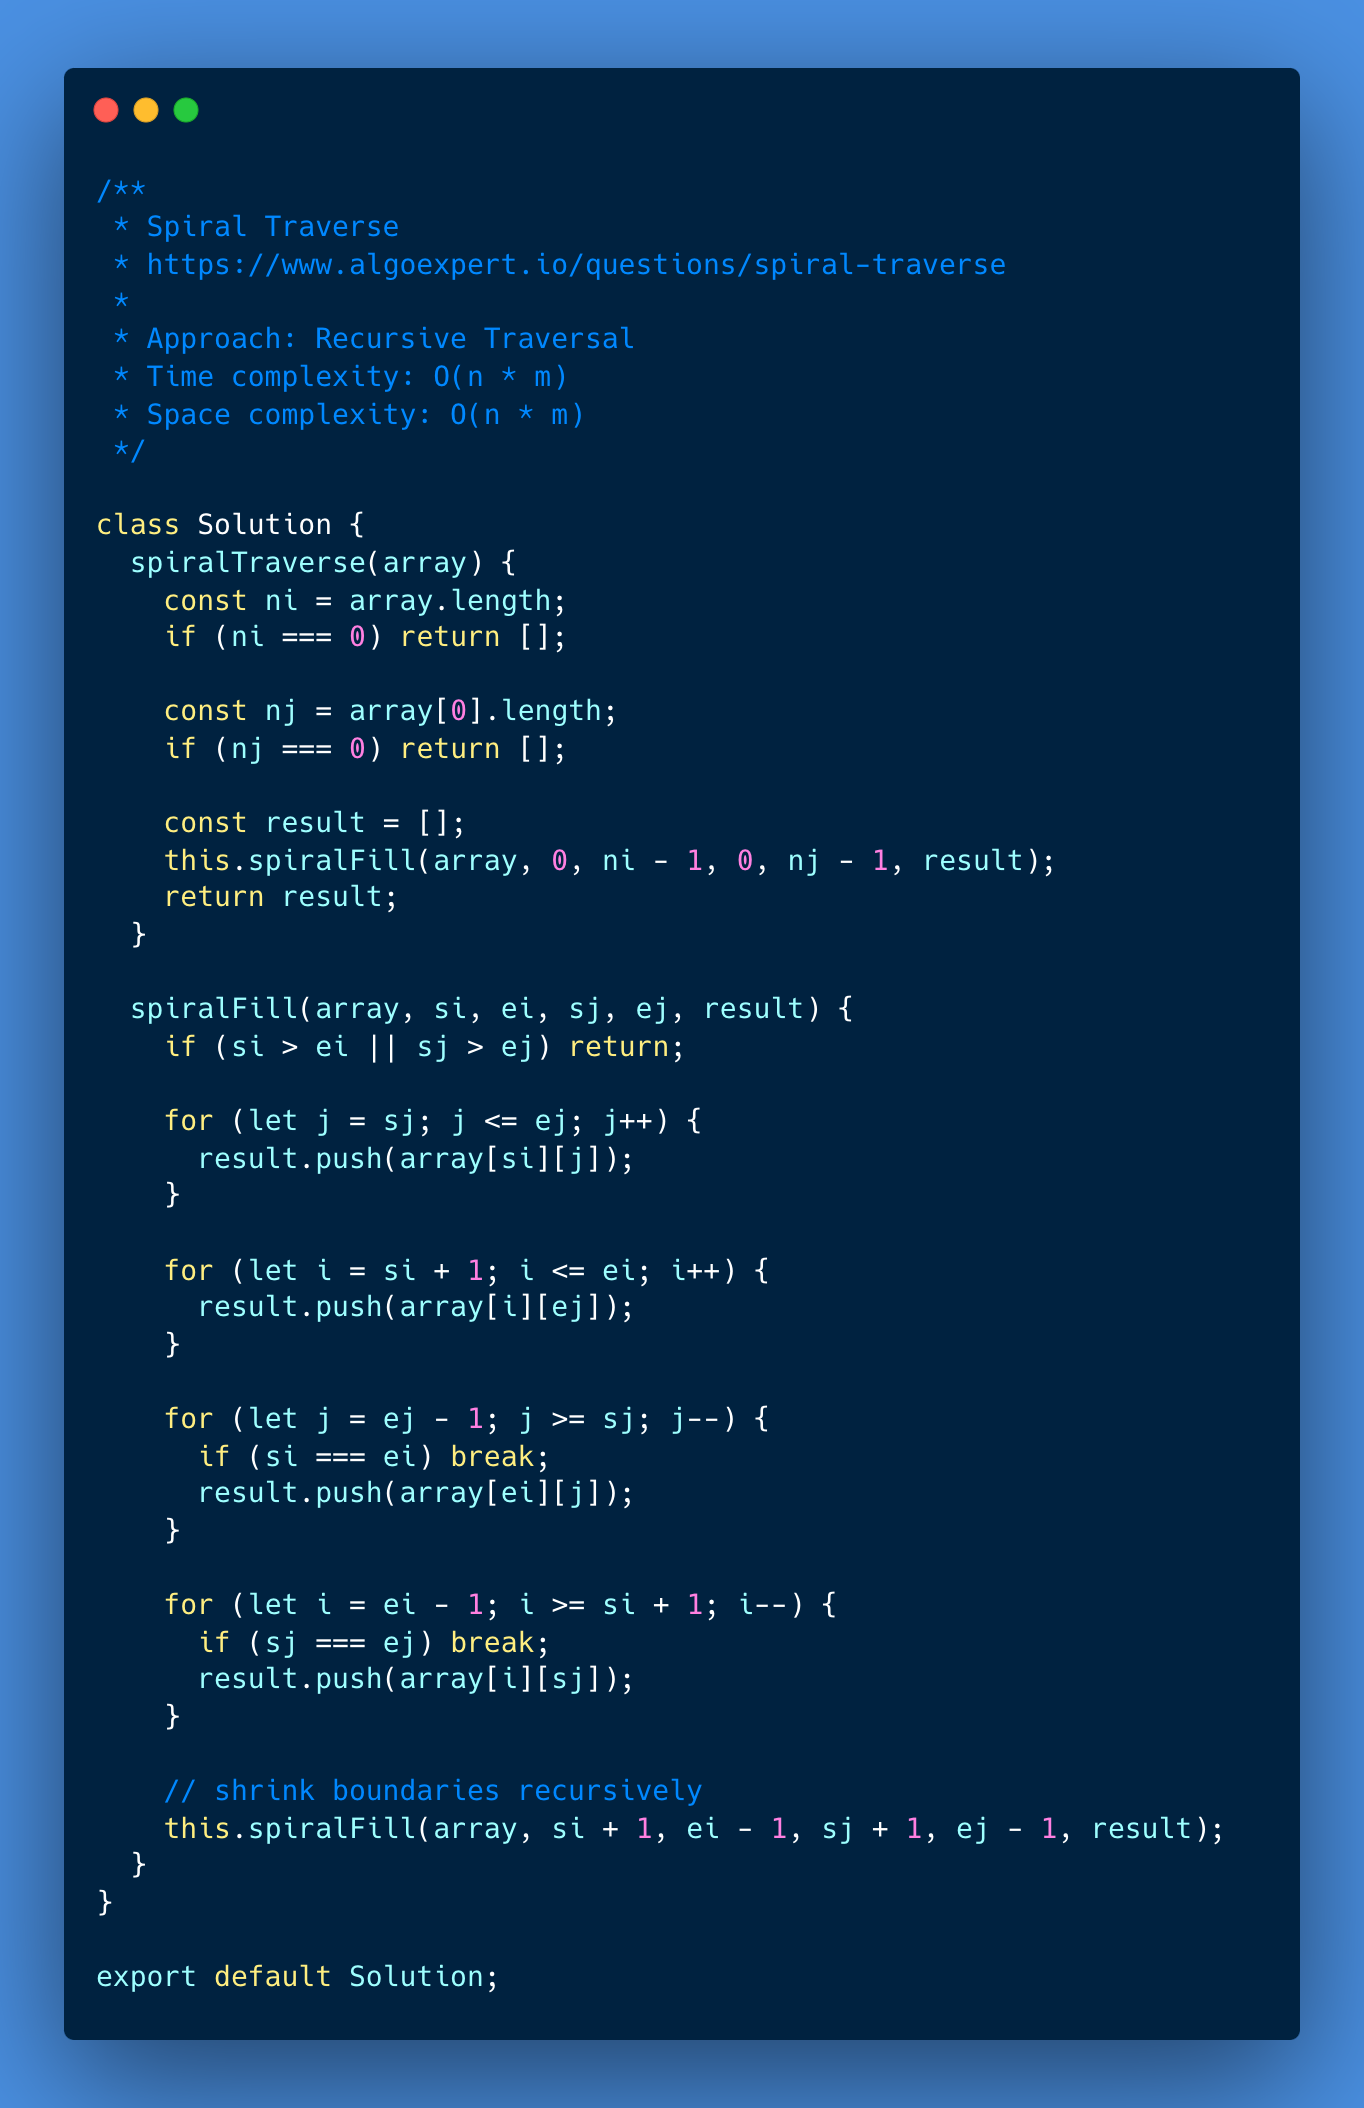
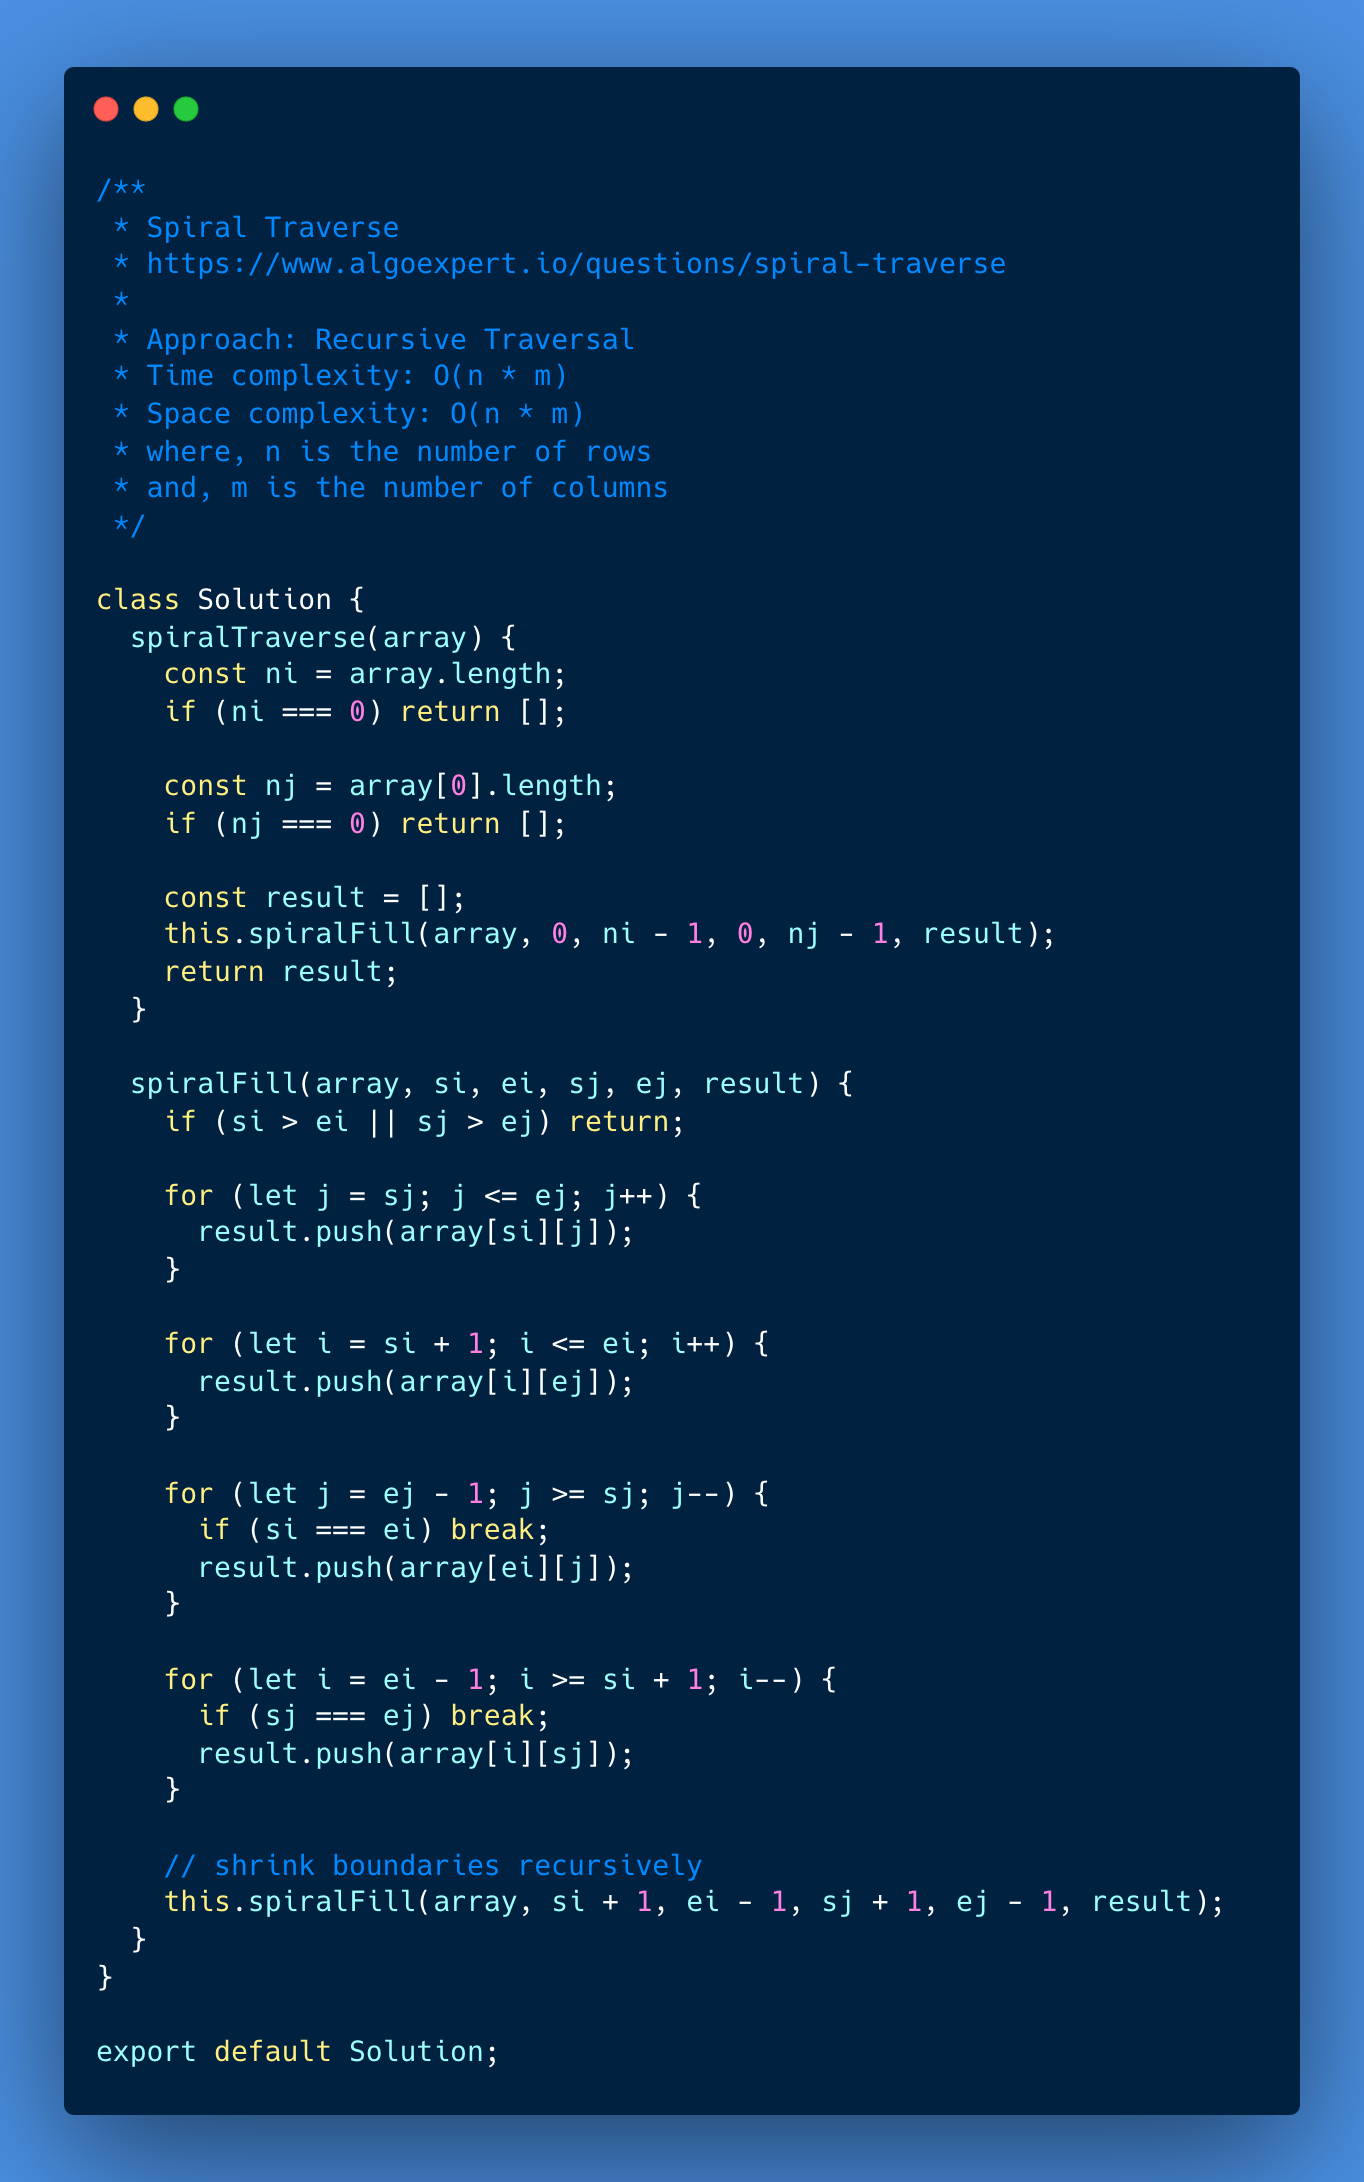
add code comments

diff --git a/002-algoexpert/011-spiral-traverse/002-solution/Solution.js b/002-algoexpert/011-spiral-traverse/002-solution/Solution.js
@@ -5,6 +5,8 @@
  * Approach: Recursive Traversal
  * Time complexity: O(n * m)
  * Space complexity: O(n * m)
+ * where, n is the number of rows 
+ * and, m is the number of columns
  */
 
 class Solution {
